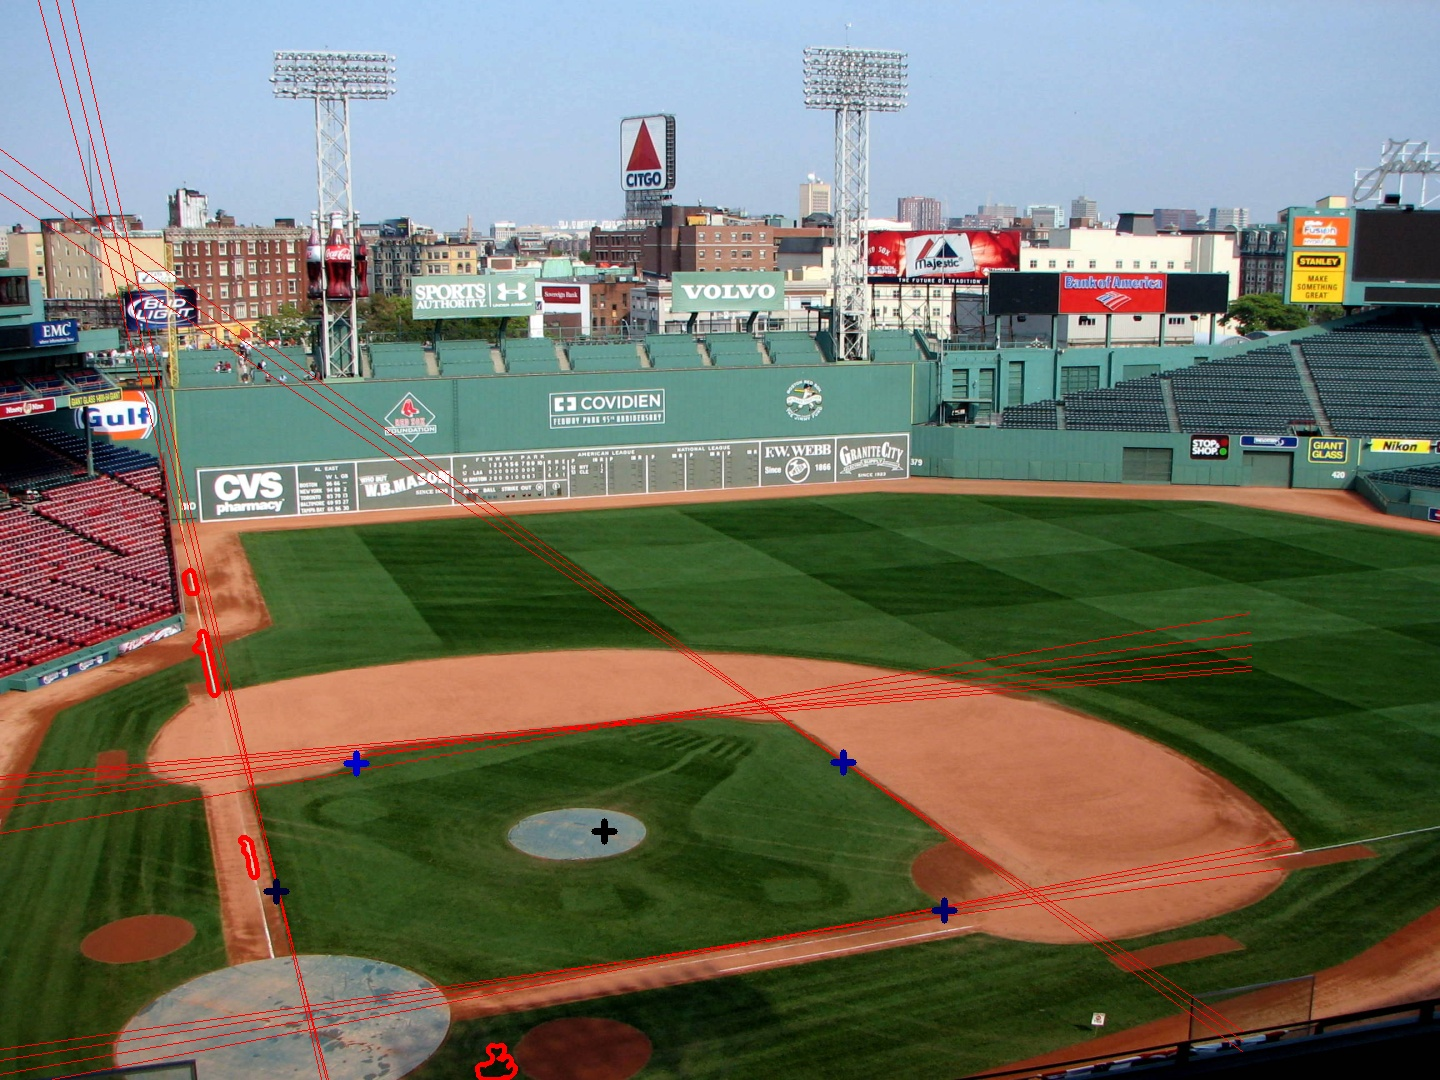
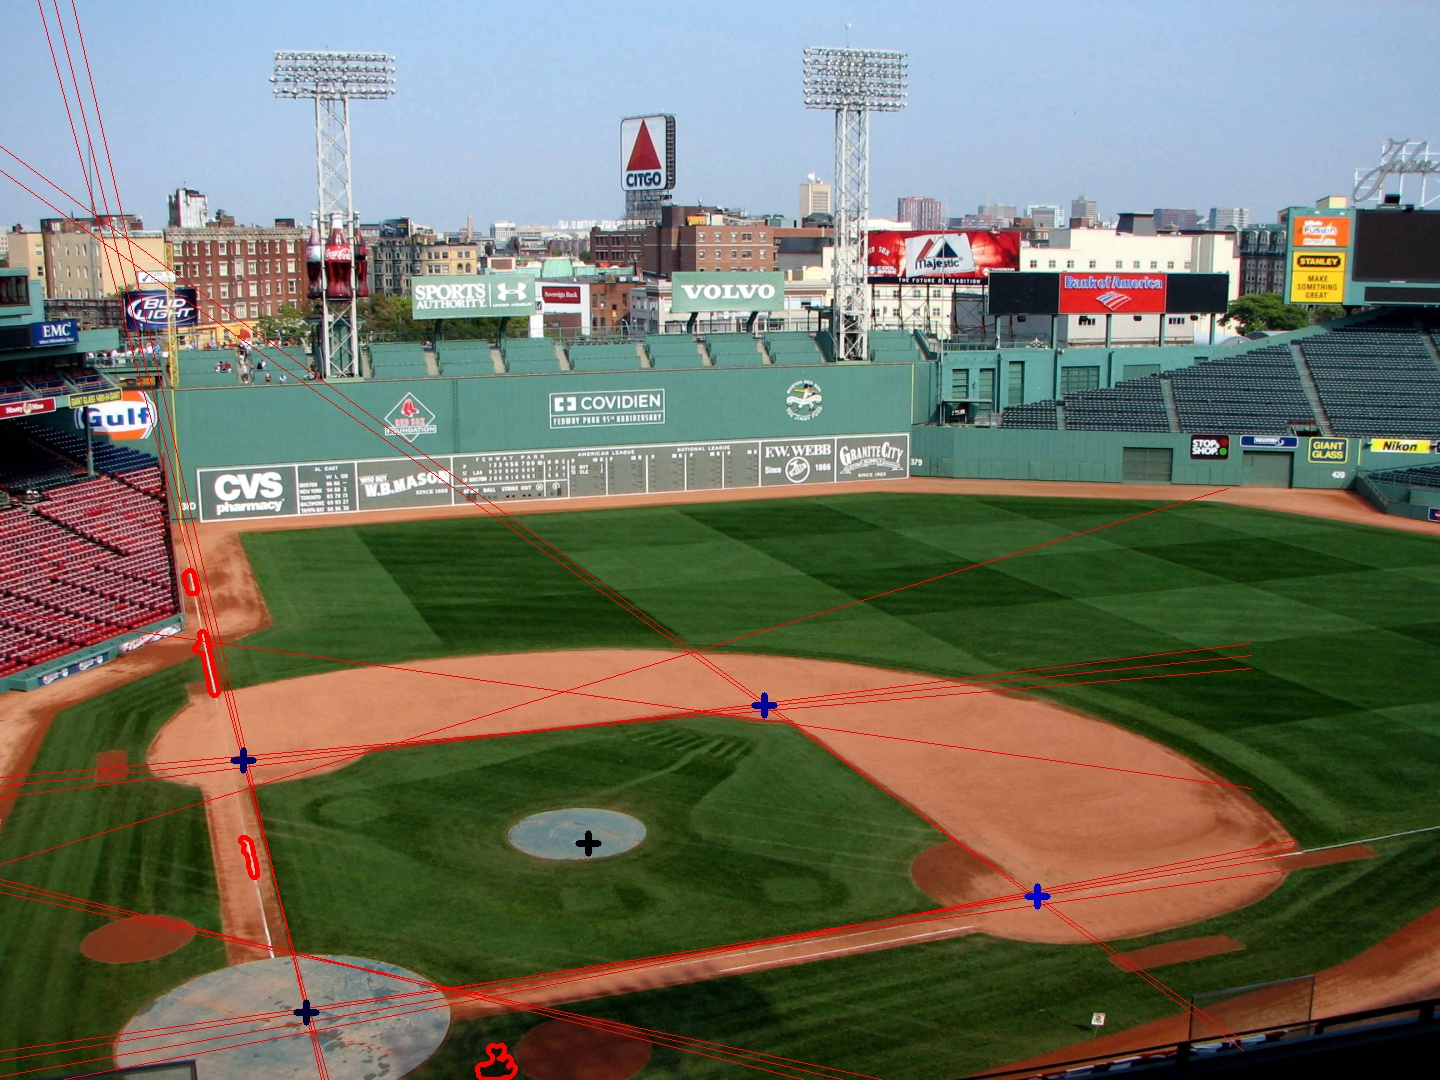
continue playlist with hough fit-- 8, 10, 1 not good

diff --git a/TestPersonDetection/infieldFittingRoutines.py b/TestPersonDetection/infieldFittingRoutines.py
@@ -31,7 +31,7 @@ def hough_fit(contour, nsides=None, approx_fit=None, image_frame=None):
     # the binning does affect the speed, so tune it....
     contour_plot = zeros(shape=(h, w), dtype=uint8)
     drawContours(contour_plot, [shifted_con, ], -1, 255, 1)
-    lines = HoughLines(contour_plot, 2, pi / 180, threshold=75)
+    lines = HoughLines(contour_plot, 2, pi / 180, threshold=80)
 
     if image_frame is not None:      #for debugging
         #print('hough lines:')
@@ -94,7 +94,9 @@ def _match_lines_to_fit(approx_fit, hough_lines, w, h):
     '''Given the approximate shape and a set of lines from the Hough algorithm
     find the matching lines and rebuild the fit'''
 
-    theta_thres = pi / 9  # 20 degrees
+    theta_thres = pi / 6  # 30 degrees
+    rho_thres = 125
+
     nsides = len(approx_fit)
     fit_sides = []
     hough_used = set()
@@ -104,7 +106,7 @@ def _match_lines_to_fit(approx_fit, hough_lines, w, h):
         pt2 = approx_fit[ivrtx2][0]
 
         rho, theta = _hesse_form(pt1, pt2)
-        # print('approx line', rho, degrees(theta))
+        print('approx line', rho, degrees(theta))
 
         # Hough lines are in order of confidence, so look for the first unused one
         #  which matches the line
@@ -116,11 +118,14 @@ def _match_lines_to_fit(approx_fit, hough_lines, w, h):
             # There is an ambiguity of -rho and adding 180deg to theta
             # So test them both.
 
-            if (abs(rho - line[0]) < 10 and abs(_delta_angle(theta, line[1])) < theta_thres) or \
-               (abs(rho + line[0]) < 10 and abs(_delta_angle(theta, line[1] - pi)) < theta_thres):
+            print("matching", abs(rho - line[0]), degrees(abs(_delta_angle(theta, line[1]))),
+                  abs(rho + line[0]), degrees(abs(_delta_angle(theta, line[1] - pi))))
+            
+            if (abs(rho - line[0]) < rho_thres and abs(_delta_angle(theta, line[1])) < theta_thres) or \
+               (abs(rho + line[0]) < rho_thres and abs(_delta_angle(theta, line[1] - pi)) < theta_thres):
                 fit_sides.append(line)
                 hough_used.add(ih)
-                # print('  matched:', ih, line[0], degrees(line[1]))
+                print('  matched:', ih, line[0], degrees(line[1]))
                 break
 
     if len(fit_sides) != nsides:
@@ -217,7 +222,7 @@ def _find_sides(nsides, hough_lines, w, h):
     #  each cluster.
 
     contour_center = (w / 2, h / 2)
-    boundaries = (-5, w+5, -5, h+5)
+    boundaries = (-50, w+50, -50, h+50)
 
     dist_thres = 10
     theta_thres = pi / 36  # 5 degrees
@@ -283,9 +288,8 @@ def _find_sides(nsides, hough_lines, w, h):
 
     # remember to unshift the resulting contour
     return vertices
-"""
 
-"""
+
 def _compute_line_near_reference(line, ref_point):
     rho, theta = line
 

diff --git a/TestPersonDetection/personDetectionTesting.py b/TestPersonDetection/personDetectionTesting.py
@@ -126,7 +126,7 @@ class PlayerFinder(object):
         if self.infield is None:
             return None
         
-        self.infield = self.infield['contour']
+        self.infield = cv2.convexHull(self.infield['contour'])
 
         # to find quadrilateral using hough_fit method
         cnrs = self.quad_fit(self.infield, image_frame=image)   # returns corner array in counterclockwise order
@@ -274,7 +274,7 @@ class PlayerFinder(object):
         '''Best fit of a quadrilateral to the contour'''
 
         approx = infieldFittingRoutines.approxPolyDP_adaptive(contour, nsides=4)
-        return infieldFittingRoutines.hough_fit(contour, nsides=4, approx_fit=None, image_frame=image_frame)
+        return infieldFittingRoutines.hough_fit(contour, nsides=4, approx_fit=approx, image_frame=image_frame)
 
     def prepare_output_image(self, input_frame):
         '''Prepare output image for drive station. Draw the found target contour.'''
